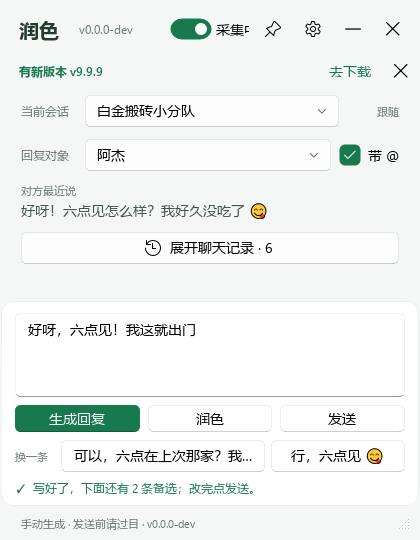
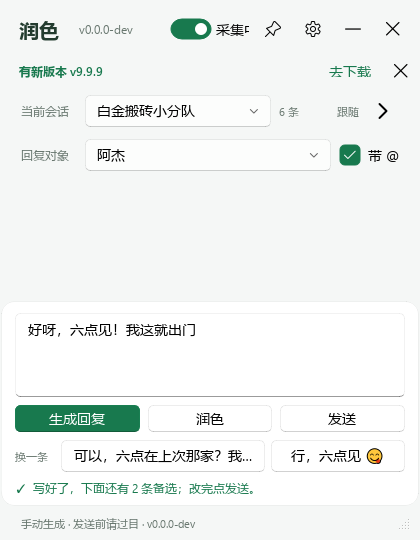
feat(overlay): 优化聊天窗口布局和详情展示功能
- 添加会话详情展开/收起功能，默认收起只显示标题一行
- 新增条数显示功能，会话标题后显示已记录消息数量
- 将采集开关从标题栏移至底部状态行
- 实现窗口高度自适应，详情收起时窗口自动缩小
- 添加聊天记录展开/收起层级控制
- 更新界面组件布局结构，优化用户体验
- 在预览工具中添加详情状态演示功能

diff --git a/app/overlay.py b/app/overlay.py
@@ -31,6 +31,7 @@ _LOG_LINES = 300
 _MUTED = "#68776f"
 _GREEN = "#18794e"
 _CHAT_GAP = 8      # 吸附时跟聊天窗口之间留的空隙
+_DETAIL_H = 560    # 铺开会话详情且没吸附时的目标高度（收起来时按内容高自适应，不用这个）
 # 界面上的名字就用这两个汉字；polish-chat 那个英文名只出现在文件名、exe、发布包和仓库名上
 _APP_NAME = "润色"
 _RELATIONSHIPS = [
@@ -236,6 +237,9 @@ class Overlay:
         self.targets = {}       # {会话名: ([发言人], 当前回复对象)}
         self._chat = ""         # 微信当前开着的会话
         self._shown = ""        # 界面上正在看的会话（浏览时和上面不一样）
+        self._details_open = False  # 会话详情（对方最近说 + 聊天记录）默认收着，首页只留标题那一行
+        self._feed_open = False     # 聊天记录自己还有一层展开，收起详情时它不单独露头
+        self._expanded_h = None     # 铺开时那个高：收起再展开要回到原来那个高度
         self._docked = settings.dock()
         self._rect = None       # 上次用过的聊天窗口位置，没变就不折腾
         self.win = _MainWindow(self._relayout)
@@ -251,6 +255,7 @@ class Overlay:
         outer.setContentsMargins(1, 1, 1, 1)
         outer.setSpacing(0)
         header = _TitleBar(self.win, on_drag=self._undock)
+        self.header = header  # 算窗口高度时要问它有多高
         title = QHBoxLayout(header)
         title.setContentsMargins(18, 12, 10, 10)
         title.setSpacing(8)
@@ -262,14 +267,6 @@ class Overlay:
         self.subtitle.setWordWrap(False)  # 窄窗口里别让版本号把标题撑开
         self.subtitle.setAttribute(Qt.WA_TransparentForMouseEvents)
         title.addWidget(self.subtitle, 1)
-        self.captureSwitch = SwitchButton(header)
-        self.captureSwitch.setOnText("采集中")
-        self.captureSwitch.setOffText("已暂停")
-        self.captureSwitch.setToolTip("开启或暂停采集")
-        self.captureSwitch.setAccessibleName("开启或暂停采集")
-        self.captureSwitch.setChecked(True)
-        self.captureSwitch.checkedChanged.connect(self._capture_toggled)
-        title.addWidget(self.captureSwitch)
         self.dockButton = TransparentToolButton(FIF.PIN, header)
         self.dockButton.setFixedSize(32, 32)
         self.dockButton.setCheckable(True)
@@ -307,18 +304,21 @@ class Overlay:
         self._build_settings()
         self._build_composer()  # 输入框和三个按钮钉在窗口底部，不跟首页一起滚走
         outer.addWidget(self.composer)
-        footer = QHBoxLayout()
+        self.footer = QWidget(self.win)
+        footer = QHBoxLayout(self.footer)
         footer.setContentsMargins(20, 9, 8, 8)
         footer.addWidget(_label(f"手动生成 · 发送前请过目 · v{VERSION}", 11, _MUTED), 1)
-        grip = QSizeGrip(self.win)
+        grip = QSizeGrip(self.footer)
         grip.setFixedSize(16, 16)
         footer.addWidget(grip, 0, Qt.AlignBottom)
-        outer.addLayout(footer)
+        outer.addWidget(self.footer)
         screen = self.app.primaryScreen().availableGeometry()
-        self.win.setMinimumHeight(min(420, screen.height() - 32))  # 输入框 + 三个按钮 + 会话信息，再矮就挤没了
-        self.win.resize(min(420, screen.width() - 32), min(540, screen.height() - 48))
-        self.win.move(screen.right() - self.win.width() - 20, screen.top() + 24)
-        self._relayout(self.win.width(), self.win.height())  # resizeEvent 补不到构造时这一次
+        width = min(420, screen.width() - 32)
+        height = min(self._fit_height(), screen.height() - 48)  # 默认收着，窗口就开成内容高
+        self.win.setMinimumHeight(height)  # 再矮就把输入框和三个按钮挤没了
+        self.win.resize(width, height)
+        self.win.move(screen.right() - width - 20, screen.top() + 24)
+        self._relayout(width, height)  # resizeEvent 补不到构造时这一次
         self._sendShortcuts()
         self._apply_capture_text(self.captureSwitch.isChecked())
         self.win.show()
@@ -354,6 +354,8 @@ class Overlay:
             self._compact = compact
             self._apply_compact(compact)
         self.feed.setFixedHeight(max(100, min(240, int(h * 0.25))))
+        if self._details_open and h > self._fit_height():
+            self._expanded_h = h  # 用户自己拉过的高：收起来再展开还用这个，不被挤回去
 
     def _apply_compact(self, compact):
         """紧凑/常规两套间距和可见性；断点没变时不会被调用。"""
@@ -366,6 +368,31 @@ class Overlay:
         for layout in self._pageLayouts:
             layout.setContentsMargins(*margins)
         self._render_alts()  # 窄了按钮上的字要更短，重排一次
+
+    # ---------------------------------------------------------------- 窗口高度
+
+    def _work_area(self):
+        """窗口现在在哪块屏上，就按哪块屏的可用区域算。"""
+        screen = QGuiApplication.screenAt(self.win.frameGeometry().center()) or self.app.primaryScreen()
+        return screen.availableGeometry()
+
+    def _fit_height(self):
+        """把看得见的那几块高度加起来：详情收着时窗口就缩到刚好，不留一大片空白。"""
+        height = self.header.sizeHint().height() + self.footer.sizeHint().height()
+        if not self.updateBar.isHidden():
+            height += self.updateBar.height()
+        height += self.home.widget().sizeHint().height() + self.composer.sizeHint().height()
+        margins = self.win.layout().contentsMargins()
+        return height + margins.top() + margins.bottom()
+
+    def _apply_height(self):
+        """按当前状态定窗口高度：收着 = 内容多高就多高；铺开 = 上次那个高，至少装得下详情。"""
+        work = self._work_area()
+        if self._details_open:
+            height = max(self._expanded_h or _DETAIL_H, self._fit_height())
+        else:
+            height = self._fit_height()
+        self.win.resize(self.win.width(), max(self.win.minimumHeight(), min(height, work.height())))
 
     # ---------------------------------------------------------------- 首页
 
@@ -382,10 +409,15 @@ class Overlay:
         self.chatBox.setToolTip("聊天窗口切到哪个会话这里就跟到哪个；也可以自己选一个，只读它的上下文")
         self.chatBox.currentIndexChanged.connect(self._on_chat_selected)
         chat_row.addWidget(self.chatBox, 1)
+        self.countLabel = _label("", 11, _MUTED)  # 条数跟在会话标题后面：收着时也知道记了多少条
+        self.countLabel.setWordWrap(False)
+        chat_row.addWidget(self.countLabel)
         self.chatFollow = _label("", 11, _MUTED)
         self.chatFollow.setFixedWidth(52)
         self.chatFollow.setAlignment(Qt.AlignRight | Qt.AlignVCenter)
         chat_row.addWidget(self.chatFollow)
+        self.detailsButton = _tool(FIF.CHEVRON_RIGHT_MED, "展开会话详情", self._toggle_details)
+        chat_row.addWidget(self.detailsButton)
         body.addLayout(chat_row)
         self.targetRow = QWidget()  # 只有开了「群聊指定回复对象」且这个会话是群聊才露出来
         target_row = QHBoxLayout(self.targetRow)
@@ -428,7 +460,8 @@ class Overlay:
         self.feed.setFixedHeight(160)
         self.feed.hide()
         body.addWidget(self.feed)
-        self._history_title()
+        self._render_details()  # 默认收起：首页只剩「当前会话 + 条数」这一行
+        self._render_count()
         body.addStretch(1)
 
     def _build_composer(self):
@@ -472,8 +505,19 @@ class Overlay:
         self.altLayout = alt_row
         self.altRow.hide()
         box.addWidget(self.altRow)
+        status_row = QHBoxLayout()  # 状态行：左边一句状态，右边采集开关（标题栏只放标题，别挤它）
+        status_row.setSpacing(8)
         self.status = _label("", 12, _MUTED)
-        box.addWidget(self.status)
+        status_row.addWidget(self.status, 1)
+        self.captureSwitch = SwitchButton(self.composer)
+        self.captureSwitch.setOnText("采集中")
+        self.captureSwitch.setOffText("已暂停")
+        self.captureSwitch.setToolTip("开启或暂停采集：暂停后不再读聊天内容")
+        self.captureSwitch.setAccessibleName("开启或暂停采集")
+        self.captureSwitch.setChecked(True)
+        self.captureSwitch.checkedChanged.connect(self._capture_toggled)
+        status_row.addWidget(self.captureSwitch)
+        box.addLayout(status_row)
         self.progress = IndeterminateProgressBar()
         self.progress.setFixedHeight(3)
         self.progress.hide()
@@ -1042,8 +1086,9 @@ class Overlay:
         if her:
             self._show_latest(her)
         else:
-            self.context.hide()
-        self._history_title()
+            self.latest.setText("")
+            self._render_latest()
+        self._render_count()
         self._follow_text()
         self._render_targets()
         if self._chat and self._shown != self._chat:
@@ -1125,7 +1170,7 @@ class Overlay:
     def dock_to(self, rect):
         """rect = 聊天窗口的 (left, top, right, bottom)，物理像素；吸附开着才动。
 
-        窗口没动就不折腾；右边放不下翻到左边，纵向跟聊天窗口对齐，高度取一样高（够高够矮都夹一下）。
+        窗口没动就不折腾；右边放不下翻到左边，纵向跟聊天窗口对齐；高度按收/放两种状态各给一个。
         """
         if not self._docked or not rect or rect == self._rect:
             return
@@ -1136,7 +1181,7 @@ class Overlay:
         screen = QGuiApplication.screenAt(area.center()) or self.app.primaryScreen()
         work = screen.availableGeometry()
         width = min(self.win.width(), max(320, work.width() // 2))
-        height = max(420, min(area.height(), work.height()))  # 再矮也得装得下输入框和三个按钮
+        height = self._dock_height(area, work)
         x = area.right() + _CHAT_GAP
         if x + width > work.right():
             x = area.left() - width - _CHAT_GAP  # 右边放不下就翻到左边
@@ -1144,6 +1189,12 @@ class Overlay:
         y = max(work.top(), min(area.top(), work.bottom() - height))
         self.win.resize(width, height)
         self.win.move(x, y)
+
+    def _dock_height(self, area, work):
+        """吸附时的高度：详情收着就缩成内容高（干爽）；铺开时跟聊天窗口一样高，够高够矮都夹一下。"""
+        if not self._details_open:
+            return min(self._fit_height(), work.height())
+        return max(420, min(area.height(), work.height()))  # 再矮也得装得下输入框和三个按钮
 
     def _logical(self, rect):
         """Win32 报的是物理像素，Qt 摆窗口用的是逻辑像素：按那块屏的比例换一下。"""
@@ -1166,6 +1217,7 @@ class Overlay:
         self.updateLabel.setText(f"有新版本 v{latest}")
         self.updateLink.setUrl(url)
         self.updateBar.show()
+        self._apply_height()  # 多出来一行提示，收着的时候窗口跟着长高一点（tick 在主线程里调）
 
     def set_capture(self, on, reason=""):
         """父进程回报的状态：只改界面，不回调（不然和父进程来回打架）。reason 为空用默认说明。"""
@@ -1224,14 +1276,44 @@ class Overlay:
         setCustomStyleSheet(self.status, qss, qss)
         self.status.setText(f"{markers.get(kind, '●')}  {text}")
 
-    def _toggle_history(self):
-        self.feed.setVisible(self.feed.isHidden())
-        self._history_title()
+    def _toggle_details(self):
+        """会话详情整块的开关：默认收着，点会话标题后面那个箭头才铺开下级几节。"""
+        if self._details_open:
+            self._expanded_h = max(self._expanded_h or 0, self.win.height())  # 记下铺开时那个高
+        self._details_open = not self._details_open
+        self._render_details()
+        self._apply_height()  # 收着就把窗口一起缩掉，别留一大片空
 
-    def _history_title(self):
-        action = "展开" if self.feed.isHidden() else "收起"
+    def _toggle_history(self):
+        self._feed_open = not self._feed_open
+        self._render_history()
+
+    def _render_details(self):
+        """会话详情整块的显隐：收着就只剩上面那一行会话标题（+ 条数），铺开才有下级几节。"""
+        expanded = self._details_open
+        self.detailsButton.setIcon(FIF.CHEVRON_DOWN_MED if expanded else FIF.CHEVRON_RIGHT_MED)
+        tip = "收起会话详情" if expanded else "展开会话详情：对方最近说、聊天记录"
+        self.detailsButton.setToolTip(tip)
+        self.detailsButton.setAccessibleName(tip)
+        self.historyButton.setVisible(expanded)
+        self._render_latest()
+        self._render_history()
+
+    def _render_latest(self):
+        """「对方最近说」：详情收着时、或这个会话还没有对方的消息，都不露头。"""
+        self.context.setVisible(self._details_open and bool(self.latest.text()))
+
+    def _render_history(self):
+        """聊天记录比详情还低一级：详情收着时它也跟着藏，别自己单独冒出来。"""
+        self.feed.setVisible(self._details_open and self._feed_open)
+        self.historyButton.setText(("收起" if self._feed_open else "展开") + "聊天记录")
+
+    def _render_count(self):
+        """条数挂在会话标题后面，收着的时候也能看出这个会话记了多少条。"""
         count = self.counts.get(self._shown, 0)
-        self.historyButton.setText(f"{action}聊天记录" + (f" · {count}" if count else ""))
+        self.countLabel.setText(f"{count} 条" if count else "")
+        self.countLabel.setToolTip(f"这个会话已经记下 {count} 条消息" if count else "")
+        self.countLabel.setVisible(bool(count))
 
     def log(self, line):
         """采集状态行：只进正在看的那个会话，不按会话存。"""
@@ -1258,12 +1340,12 @@ class Overlay:
         self.log(lines[-1])
         if who == "her":
             self._show_latest(text)
-        self._history_title()
+        self._render_count()
 
     def _show_latest(self, text):
         self.latest.setText(text if len(text) <= 120 else text[:120] + "…")
         self.latest.setToolTip(text)
-        self.context.show()
+        self._render_latest()
 
     def after(self, ms, fn):
         QTimer.singleShot(ms, fn)

diff --git a/tools/preview_ui.py b/tools/preview_ui.py
@@ -24,7 +24,7 @@ from PySide6.QtGui import QFontDatabase  # noqa: E402
 from app import settings  # noqa: E402
 
 
-_STATES = ("ready", "typed", "loading", "error", "setup", "settings", "paused", "debug")
+_STATES = ("ready", "typed", "loading", "error", "setup", "settings", "paused", "debug", "details")
 
 # 调试视图预览用的真微信截图（只读进内存，不改不存）；没有就退一张空画面
 _FRAME = Path("/private/tmp/claude-501/-Users-lpitiless-Documents-project-wechatjev"
@@ -221,6 +221,9 @@ def main() -> int:
                 ov.set_status("演示模式：自己写完点「润色」，只改怎么说、不改说什么。")
             elif args.state == "settings":
                 ov.open_settings()
+            elif args.state == "details":
+                ov._toggle_details()  # 会话详情默认收着，这一档是「展开以后」的样子
+                ov.set_status("演示模式：会话详情展开后才有「对方最近说」和聊天记录。")
             else:
                 ov.set_replies(_REPLIES)
                 ov.set_update("9.9.9", "https://github.com/Echosong/polish-chat/releases/latest")

diff --git a/README.md b/README.md
@@ -102,7 +102,8 @@ key 写进 Windows 用户环境变量（注册表 `HKCU\Environment`，跟 `setx
 - **群聊**：发言人名进上下文，知道哪句是谁说的；可指定回复对象，发送可带「@名字 」（纯文本）
 - **吸在微信旁边**：窗口一挪一缩就跟着贴过去；拖一下脱开，图钉再吸回来
 - **采集开关**：标题栏一拨就停，采集会话一起停掉（Win10 的采集黄框也跟着消失）
-- **聊天记录**：底部展开，看 OCR 到底读出了什么，认错了一眼就能发现
+- **聊天记录**：默认收着，首页只有一行会话标题（后面跟着这个会话记了多少条），点标题右边那个箭头展开，
+  才看得到「对方最近说」和聊天记录，看 OCR 到底读出了什么，认错了一眼就能发现
 - **调试视图**（可选）：另开一个窗口实时画出截到的画面和每个识别框——绿 = 我、蓝 = 对方、
   灰 = 过滤掉的灰字、橙 = 当成发言人名、红 = 当成图片丢掉、黄 = 小字丢掉，外加 OCR 耗时和每一行。
   识别不对时一眼看出是哪一步的锅。只在内存里画，不存图

diff --git a/README.en.md b/README.en.md
@@ -104,8 +104,11 @@ calls; watching without clicking calls nothing.
 - **Group chats** — speaker names are fed to the model; an optional reply target makes every candidate
   address that person, and Send can prefix `@name ` (plain text).
 - **Docks next to the chat window**; drag to detach, pin to re-dock.
-- **Capture switch**, **live chat log** (see exactly what OCR read), **debug view** (draws the frame and every
+- **Capture switch**, **live chat log**, **debug view** (draws the frame and every
   recognition box in a separate window, in memory only), **auto-restore of a minimized chat window**.
+  The chat log is collapsed by default: the home page shows one line — the conversation title with the
+  number of messages recorded for it — and the arrow next to it expands "what they said last" plus the log
+  of exactly what OCR read.
 - **Any model** — 12 providers plus custom base URLs, one key for all of them; thinking mode toggle;
   optional update check at startup.
 
